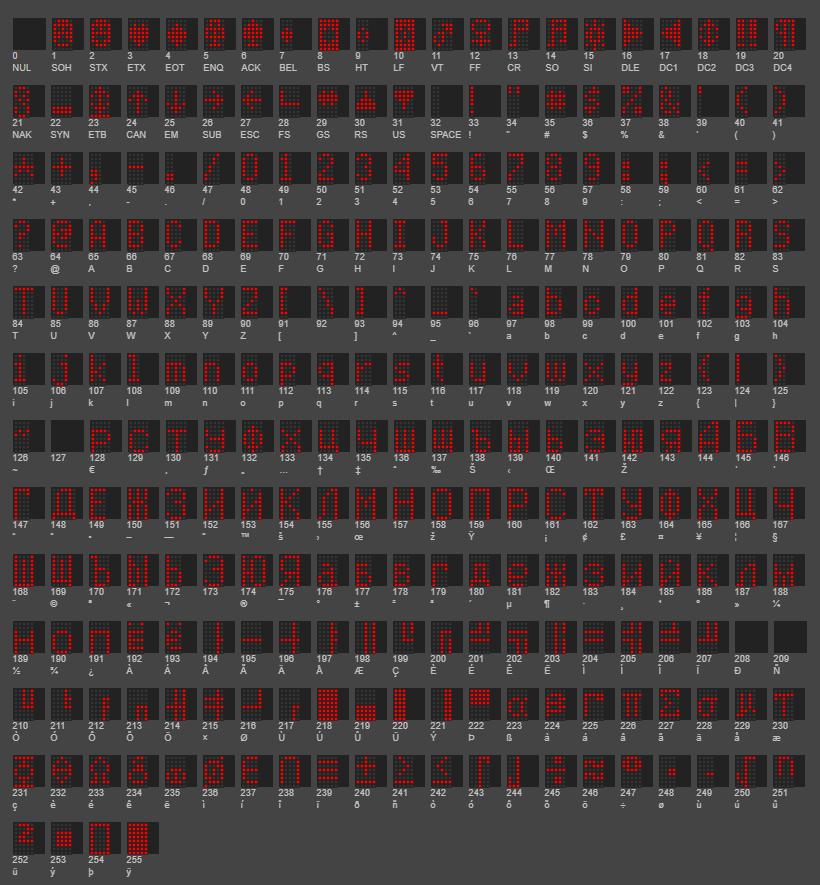
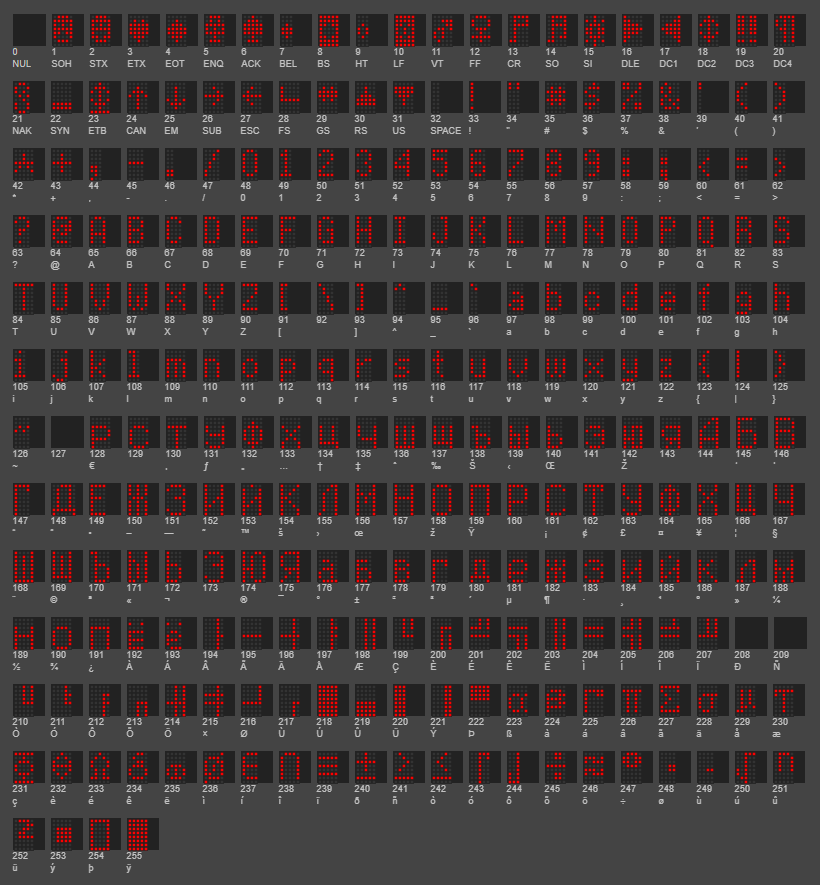
[P104] Improved Ë and ë in the Cyrillic set to align with the other Cyrillic characters, and updated screenshot

Changed region(s): [[0.0, 0.0, 0.9756, 0.9763]]

diff --git a/src/src/Static/Fonts/P104_font_cyr_ext.h b/src/src/Static/Fonts/P104_font_cyr_ext.h
@@ -194,8 +194,8 @@ MD_MAX72XX::fontType_t font_cyr_ext[] PROGMEM = // ASCII with Cyrillic extension
   5, 252, 16, 16, 16, 252,                      // 189 - 'н'
   5, 120, 132, 132, 132, 120,                   // 190 - 'о'
   5, 252, 4, 4, 4, 252,                         // 191 - 'п'
-  4, 125, 84,  84,  85,                         // 192 - Ё
-  4, 57,  84,  84,  73,                         // 193 - ё
+	4, 250, 168, 168, 170, 	                      // 192 - Ё
+	4, 114, 168, 168, 146, 	                      // 193 - ё
   5, 0,   0,   0,   255, 16,                    // 194 - Left T
   5, 16,  16,  16,  16, 16,                     // 195 - Top side
   5, 16,  16,  16,  255, 16,                    // 196 - Center +
